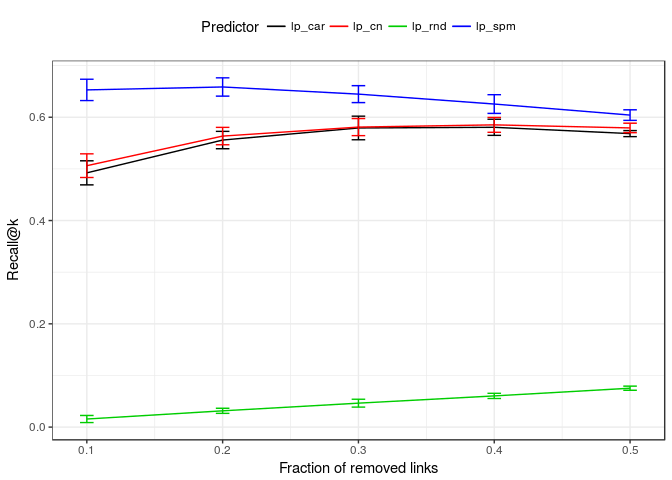
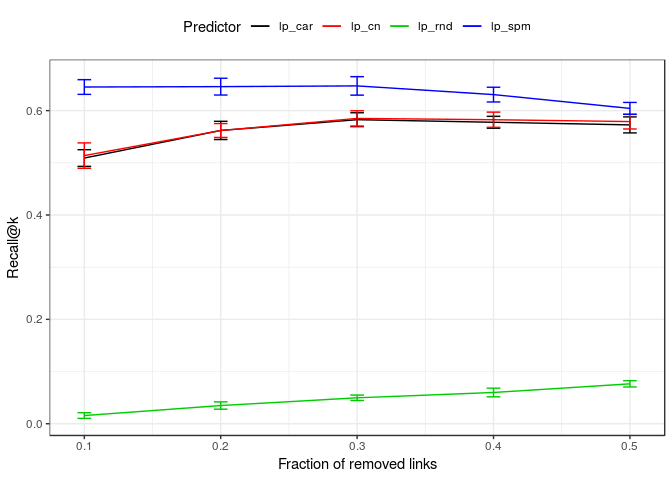
Changed AUPR and AUROC computation to package precrec

Changed region(s): [[0.0, 0.125, 1.0, 1.0], [0.2812, 0.0312, 0.7812, 0.0625]]

diff --git a/README.md b/README.md
@@ -93,13 +93,13 @@ sigma_c <- structural_consistency(jazz_collab)
 mean(sigma_c)
 ```
 
-    ## [1] 0.7022263
+    ## [1] 0.7053285
 
 ``` r
 sd(sigma_c)
 ```
 
-    ## [1] 0.02050877
+    ## [1] 0.01851257
 
 Since the *σ*<sub>*c*</sub> is high, link predictors are likely to give us good candidates of interaction.
 
@@ -156,16 +156,20 @@ sessionInfo()
     ## [1] stats     graphics  grDevices utils     datasets  methods   base     
     ## 
     ## other attached packages:
-    ## [1] bindrcpp_0.2.2     LinkPrediction_1.0 dplyr_0.7.4       
+    ## [1] bindrcpp_0.2.2     LinkPrediction_1.0 dplyr_0.7.6       
     ## 
     ## loaded via a namespace (and not attached):
-    ##  [1] Rcpp_0.12.16     RSpectra_0.12-0  pillar_1.2.1     compiler_3.4.4  
-    ##  [5] plyr_1.8.4       bindr_0.1.1      PRROC_1.3        tools_3.4.4     
-    ##  [9] digest_0.6.15    evaluate_0.10.1  tibble_1.4.2     gtable_0.2.0    
-    ## [13] lattice_0.20-35  pkgconfig_2.0.1  rlang_0.2.0      Matrix_1.2-14   
-    ## [17] igraph_1.2.1     cli_1.0.0        yaml_2.1.18      stringr_1.3.0   
-    ## [21] knitr_1.20       rprojroot_1.3-2  grid_3.4.4       glue_1.2.0      
-    ## [25] R6_2.2.2         rmarkdown_1.9    ggplot2_2.2.1    purrr_0.2.4     
-    ## [29] magrittr_1.5     backports_1.1.2  scales_0.5.0     htmltools_0.3.6 
-    ## [33] assertthat_0.2.0 colorspace_1.3-2 labeling_0.3     utf8_1.1.3      
-    ## [37] stringi_1.1.7    lazyeval_0.2.1   munsell_0.4.3    crayon_1.3.4
+    ##  [1] Rcpp_0.12.17        RSpectra_0.13-1     pillar_1.2.1       
+    ##  [4] compiler_3.4.4      plyr_1.8.4          bindr_0.1.1        
+    ##  [7] tools_3.4.4         digest_0.6.15       evaluate_0.10.1    
+    ## [10] tibble_1.4.2        gtable_0.2.0        lattice_0.20-35    
+    ## [13] pkgconfig_2.0.1     rlang_0.2.1         Matrix_1.2-14      
+    ## [16] igraph_1.2.1        cli_1.0.0           yaml_2.1.18        
+    ## [19] stringr_1.3.0       knitr_1.20          rprojroot_1.3-2    
+    ## [22] grid_3.4.4          tidyselect_0.2.4    glue_1.2.0         
+    ## [25] data.table_1.10.4-3 R6_2.2.2            rmarkdown_1.9      
+    ## [28] purrr_0.2.5         ggplot2_3.0.0       magrittr_1.5       
+    ## [31] backports_1.1.2     scales_0.5.0        htmltools_0.3.6    
+    ## [34] precrec_0.9.1       assertthat_0.2.0    colorspace_1.3-2   
+    ## [37] labeling_0.3        utf8_1.1.3          stringi_1.1.7      
+    ## [40] lazyeval_0.2.1      munsell_0.4.3       crayon_1.3.4
